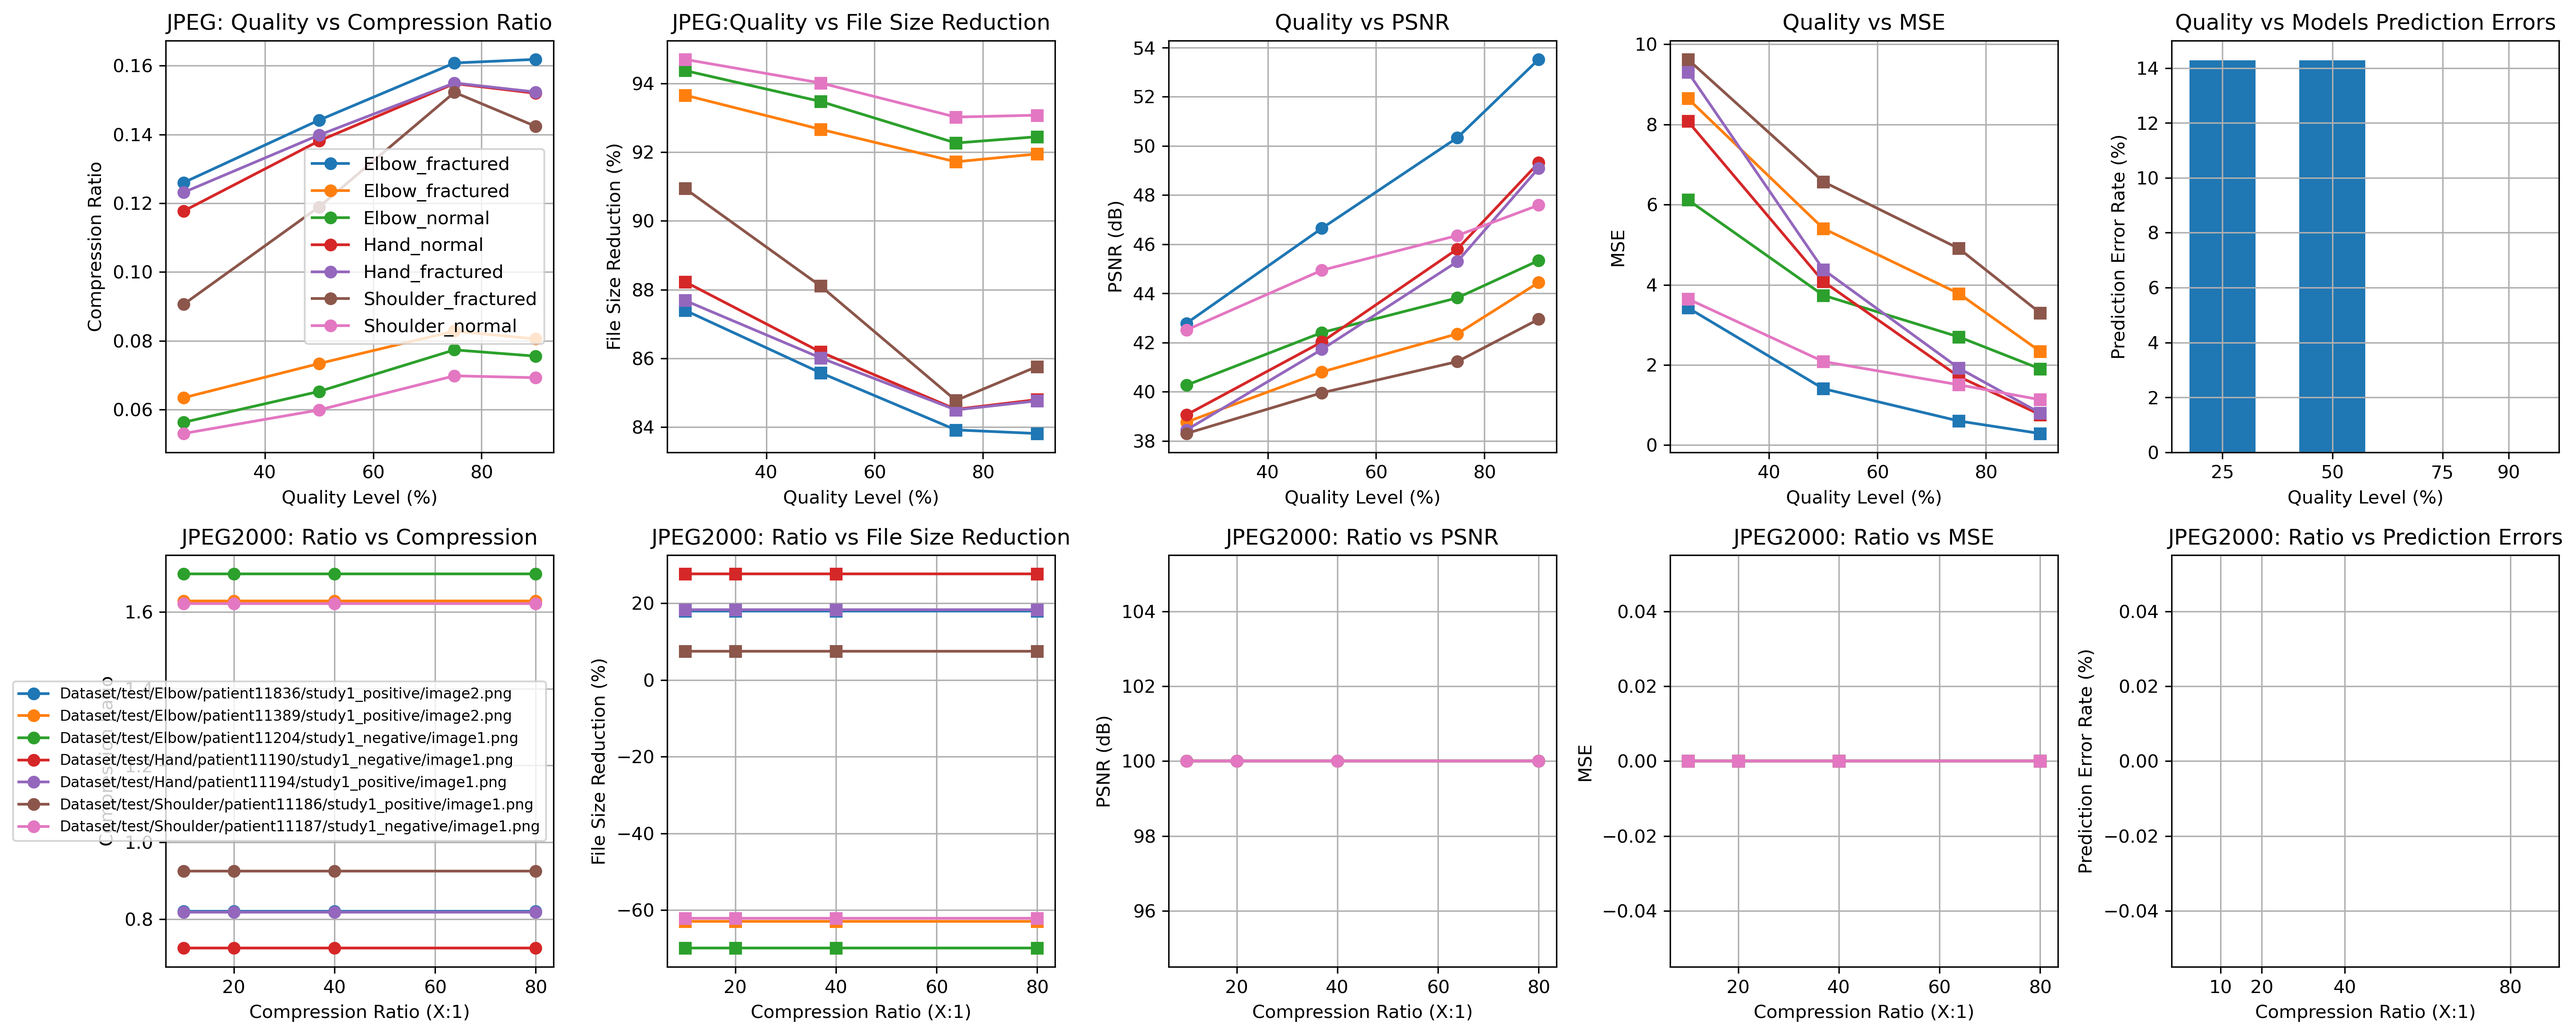
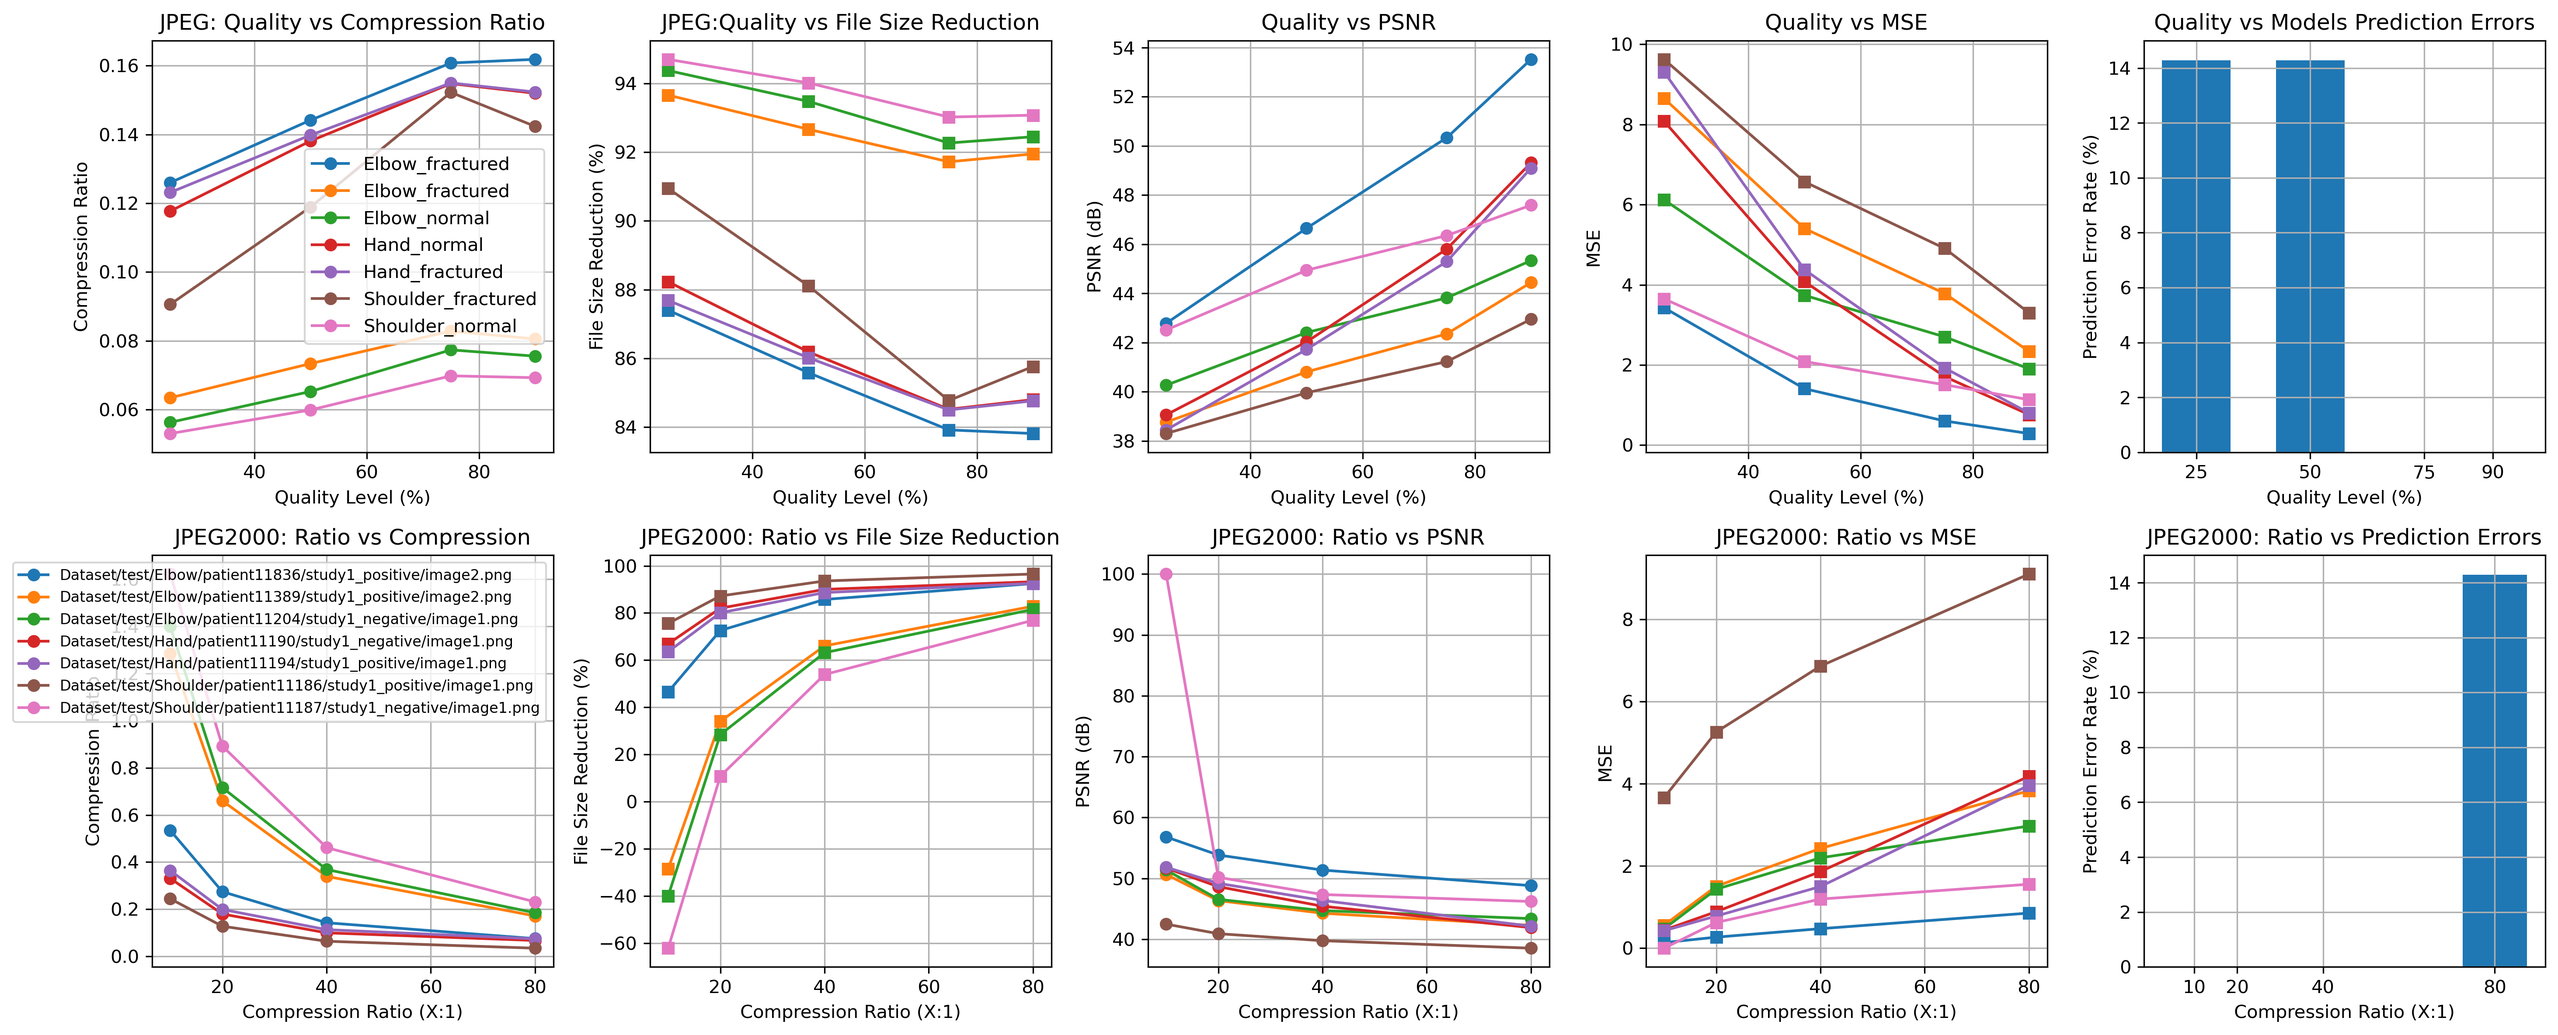
Corrected JPEG2000 Compression

diff --git a/compression.py b/compression.py
@@ -58,20 +58,24 @@ class CompressionAnalyzer:
             print(f"performing jpeg2000....")
         #conv PIL to numpy array SINCE: jpeg2000 is not supported in PIL :(
             img_array = np.array(img)
-        #saving og img temporarily
-            temp_input = "temp_input.png"
-            img.save(temp_input)
-        #O/P img path
+        #O/P img path, codestream o/p
             temp_output = "temp_compressed.jp2"
-        
+            #use glymur with compression ratios parameter
+
+            if os.path.exists(temp_output):#if theres one already, delerte it
+                os.remove(temp_output)
+        # cratios controls the compression - lower numbers = more compression
+        # Example: cratios=[192, 1] means first layer at 192:1, second at 1:1
+            target_ratio = compression_ratio
+       # Create compression ratios - we'll use two layers for better control
+            cratios = [compression_ratio] # First layer at target ratio, second at 1:1 (highest quality)
         #using glymur to compress w/ JPEG2000 DOES WAVELET XFORM ITSELF!!!
-            jp2 = glymur.Jp2k(temp_output, data=img_array)
+        # Proper lossless/lossy encoding
+            jp2 = glymur.Jp2k(temp_output, data=img_array, cratios=cratios)
         #glymur handles the wavelet transform and EBCOT coding internally
         
-        #find file size
-            compressed_size = os.path.getsize(temp_output)
         #read back the compressed image
-            compressed_array = jp2[:]
+            compressed_array = jp2[:]  # Decode
             compressed_img = Image.fromarray(compressed_array)
         
             print(f"JPEG2000 compression complete! Ratio: {compression_ratio}:1")
@@ -207,9 +211,9 @@ if __name__ == "__main__":#this only runs when compression.py is run:
                 print(f"file size reduced to {ratio*100:.1f}% of og")
                 print(f"quality: PSNR {psnr:.2f} dB, MSE {mse:.2f}")
                 #ok now ai model testing:
-                print("testing ai prediction!")
-                prediction_changed= analyzer.test_prediction(img_path, standard='JPEG', quality=quality)
-                print(f"model's prediction affected?:{'yes..' if prediction_changed else 'No!'}")
+                #print("testing ai prediction!")
+                #prediction_changed= analyzer.test_prediction(img_path, standard='JPEG', quality=quality)
+                #print(f"model's prediction affected?:{'yes..' if prediction_changed else 'No!'}")
                 
             # Test JPEG2000 at different quality levels
             print("\n JPEG2000 COMPRESSION (Wavelet-based):")
@@ -222,11 +226,12 @@ if __name__ == "__main__":#this only runs when compression.py is run:
                 print(f"File size: {ratio*100:.1f}% of original")
                 print(f"Quality: PSNR {psnr:.2f} dB, MSE {mse:.2f}")
                 #ok now ai model testing:
-                print("testing ai prediction!")
-                prediction_changed = analyzer.test_prediction(
-                    img_path, standard='JPEG2000', compression_ratio=compression_ratio
-                )
-                print(f"model's prediction affected?:{'yes..' if prediction_changed else 'No!'}")
-            break  # just trying one img for now
+                # just trying one img for now
+                #print("testing ai prediction!")
+                #prediction_changed = analyzer.test_prediction(
+                #    img_path, standard='JPEG2000', compression_ratio=compression_ratio
+                #)
+                #print(f"model's prediction affected?:{'yes..' if prediction_changed else 'No!'}")
+            #break  # just trying one img for now
     else:
         print("no images found")
